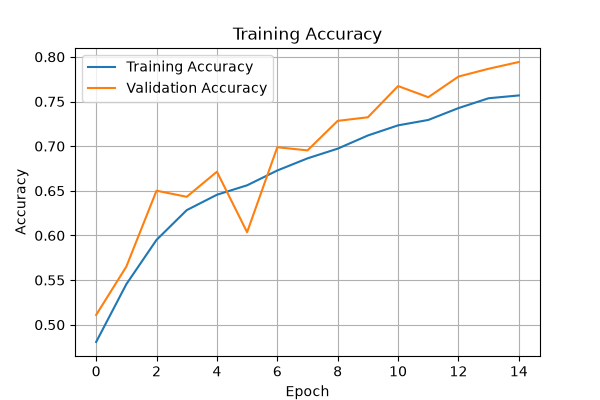
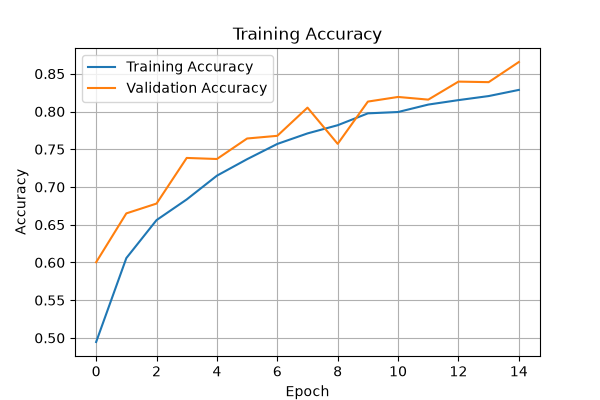
Retrain model with TensorFlow 2.19

diff --git a/src/train.py b/src/train.py
@@ -1,3 +1,9 @@
+import os
+
+os.environ["TF_ENABLE_ONEDNN_OPTS"] = "0"
+os.environ["TF_CPP_MIN_LOG_LEVEL"] = "2"
+
+import tensorflow as tf
 import tensorflow as tf
 import matplotlib.pyplot as plt
 import os
@@ -10,8 +16,8 @@ train_ds = tf.keras.utils.image_dataset_from_directory(
     validation_split=0.2,
     subset="training",
     seed=42,
-    image_size=(224, 224),
-    batch_size=32
+    image_size=(128, 128),
+    batch_size=8
 )
 
 val_ds = tf.keras.utils.image_dataset_from_directory(
@@ -19,8 +25,8 @@ val_ds = tf.keras.utils.image_dataset_from_directory(
     validation_split=0.2,
     subset="validation",
     seed=42,
-    image_size=(224, 224),
-    batch_size=32
+    image_size=(128, 128),
+    batch_size=8
 )
 
 AUTOTUNE = tf.data.AUTOTUNE

diff --git a/resave_model.py b/resave_model.py
@@ -1,0 +1,12 @@
+import tensorflow as tf
+from pathlib import Path
+
+model_path = Path("models/baseline/lungvision_cnn.keras")
+
+print("Loading model...")
+model = tf.keras.models.load_model(model_path)
+
+print("Saving model...")
+model.save(model_path)
+
+print("Done! Model re-saved successfully.")